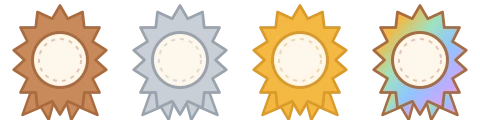
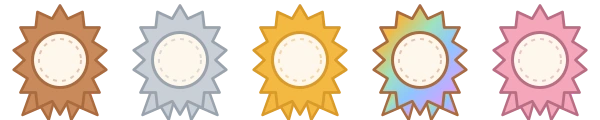
Display the fifth milestone and its rose-colored badge

diff --git a/tavern-plugin/packages/dsh-tavern/assets/achievement-art.css b/tavern-plugin/packages/dsh-tavern/assets/achievement-art.css
@@ -50,13 +50,14 @@
 .achievement-art-badge {
   position: absolute; left: calc(250 * var(--am-unit)); top: calc(96 * var(--am-unit));
   width: calc(38 * var(--am-unit)); aspect-ratio: 1; display: grid; place-items: center;
-  background: url('/profile-bridge/achievement-badges.webp') var(--am-badge-offset, 0%) center / 400% 100% no-repeat;
+  background: url('/profile-bridge/achievement-badges.webp') var(--am-badge-offset, 0%) center / 500% 100% no-repeat;
   color: #5e3a28; font-size: calc(9 * var(--am-unit)); font-weight: 800;
   filter: drop-shadow(0 2px 4px #3c231440);
 }
-.achievement-art[data-tier="silver"] { --am-badge-offset: 33.3333%; }
-.achievement-art[data-tier="gold"] { --am-badge-offset: 66.6667%; }
-.achievement-art[data-tier="rainbow"] { --am-badge-offset: 100%; }
+.achievement-art[data-tier="silver"] { --am-badge-offset: 25%; }
+.achievement-art[data-tier="gold"] { --am-badge-offset: 50%; }
+.achievement-art[data-tier="rainbow"] { --am-badge-offset: 75%; }
+.achievement-art[data-tier="starter"] { --am-badge-offset: 100%; }
 .achievement-art[data-tier="rainbow"] .achievement-art-badge { font-size: calc(7.5 * var(--am-unit)); }
 .achievement-art-ribbon {
   position: absolute; left: calc(60 * var(--am-unit)); top: calc(210 * var(--am-unit));
